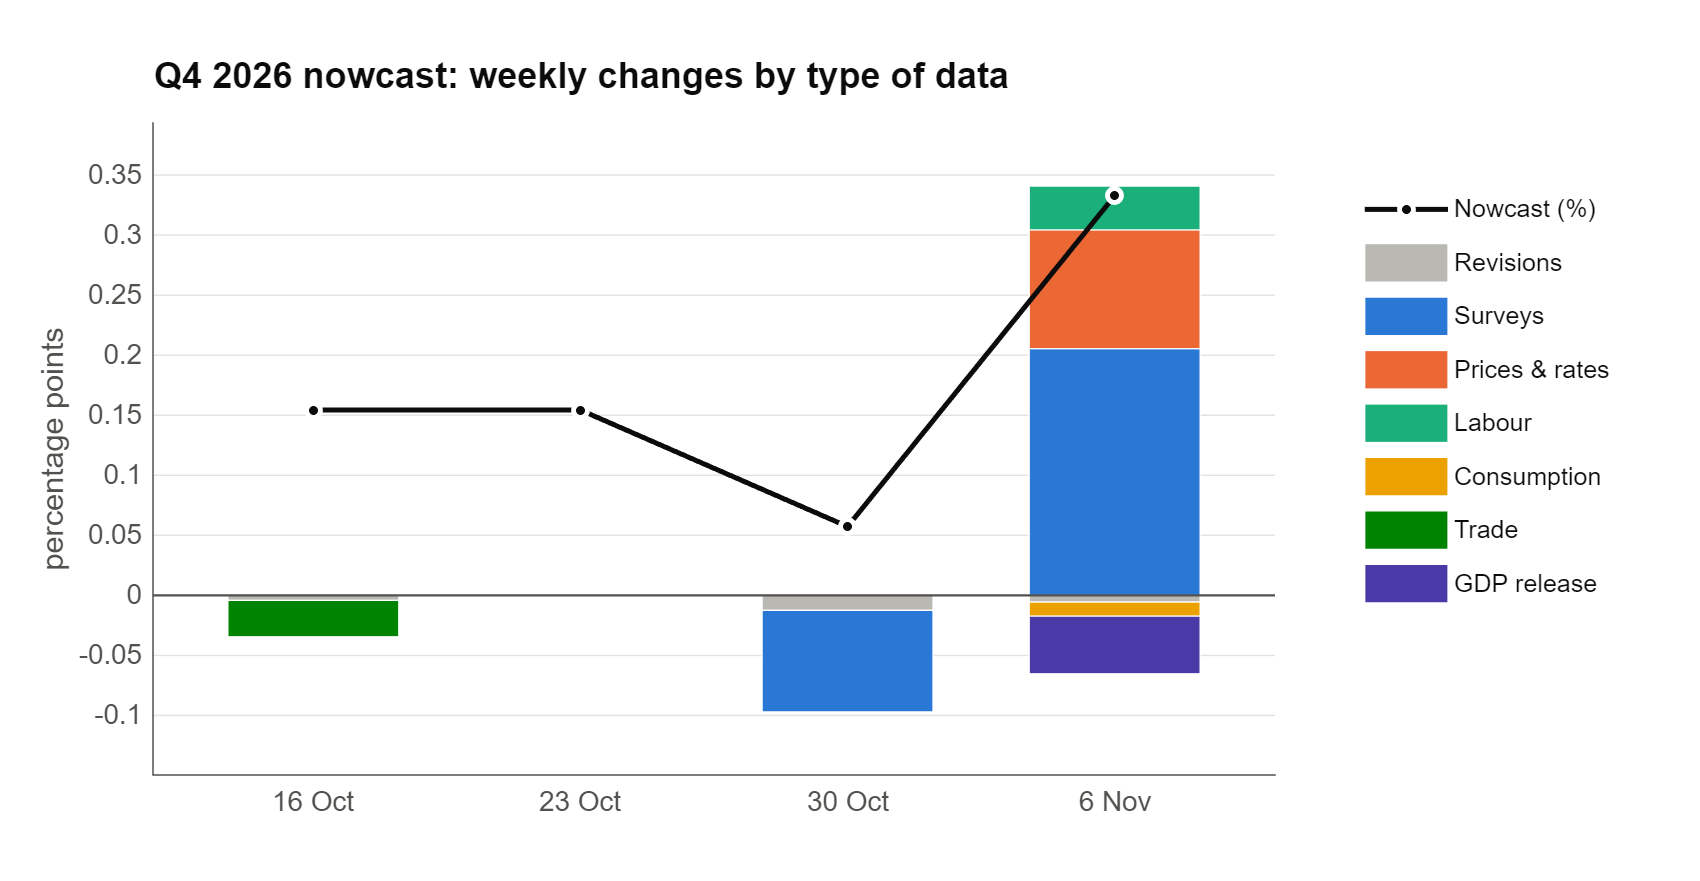
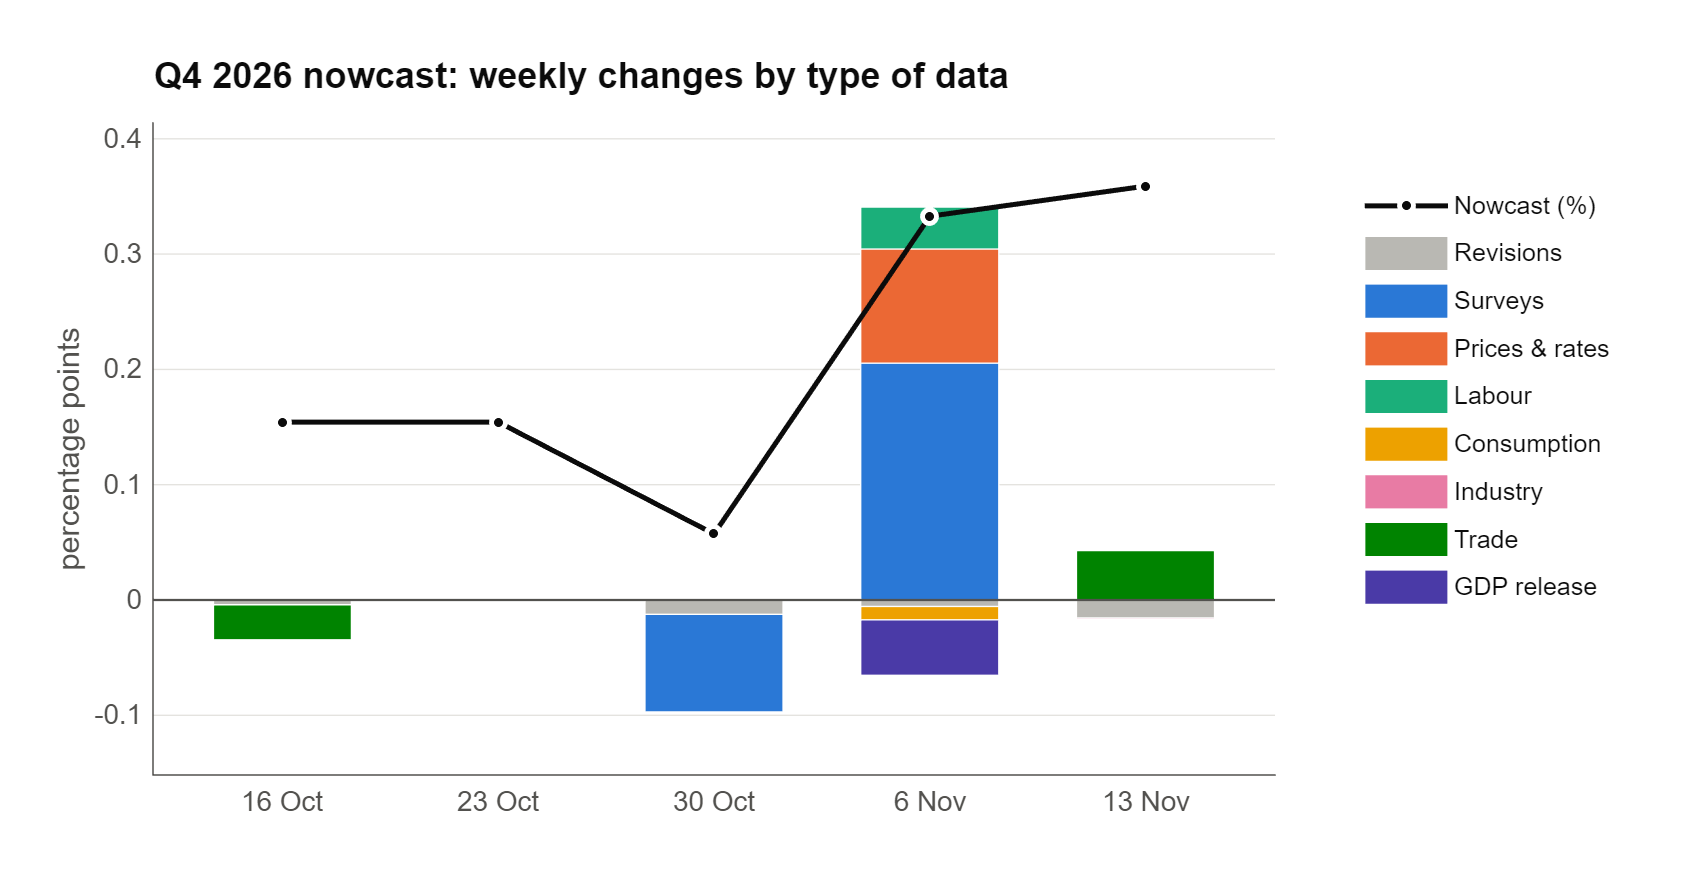
Update GDP nowcast

diff --git a/_pages/nowcast.md b/_pages/nowcast.md
@@ -5,9 +5,9 @@ permalink: /nowcast/
 author_profile: true
 ---
 
-**Latest estimate, 6 November 2026 at 12:02:** Italy's real GDP in **Q4 2026** is growing by **0.33%** compared with the previous quarter.
-Likely range (80% probability): -0.06% to 0.74%. Compared with a year earlier: 0.82%.
-The estimate is up 0.28 percentage points from last week.
+**Latest estimate, 13 November 2026 at 12:13:** Italy's real GDP in **Q4 2026** is growing by **0.36%** compared with the previous quarter.
+Likely range (80% probability): -0.04% to 0.76%. Compared with a year earlier: 0.84%.
+The estimate is up 0.03 percentage points from last week.
 {: .notice--primary style="font-size: 1.1em !important; line-height: 1.6;"}
 
 <!-- release-update -->
@@ -30,7 +30,7 @@ Each bar shows how much the data published that week moved the nowcast, split by
 <details markdown="1">
 <summary>This week's changes in detail</summary>
 
-The data published this week moved the estimate by +0.28 percentage points (surveys +0.21, prices & rates +0.10, gdp release -0.05).
+The data published this week moved the estimate by +0.03 percentage points (trade +0.04, revisions -0.02).
 
 ![Contribution of this week's data releases to the change in the nowcast](web_news_week.png)
 
@@ -38,20 +38,17 @@ The data published this week moved the estimate by +0.28 percentage points (surv
 
 New data published since last week:
 
-- Consumer confidence (Oct 2026): -0.1 points
-- Industrial confidence (Oct 2026): +0.2 points
-- Consumer prices (HICP) (Oct 2026): +1.2% on previous month
-- 1-year Euribor interest rate (Oct 2026): -0.01 percentage points
-- Retail sales (volume) (Sep 2026): +0.1% on previous month
-- Unemployment rate (Sep 2026): +0.10 percentage points
-- Real GDP (Q3 2026): published
+- Industrial production (Sep 2026): +1.2% on previous month
+- Industrial production in Germany (Sep 2026): +1.3% on previous month
+- Exports (Sep 2026): -0.2% on previous month
+- Imports (Sep 2026): +3.3% on previous month
 </details>
 
 ## GDP growth in 2026
 
-**Estimate for 2026 as a whole: 0.87%** (80% range 0.76% to 0.96%), with the data available on 6 November 2026.
+**Estimate for 2026 as a whole: 0.87%** (80% range 0.76% to 0.97%), with the data available on 13 November 2026.
 
-If GDP stayed at its Q3 2026 level for the rest of the year, growth in 2026 would be 0.78% (the carry-over, or *crescita acquisita*, also reported by ISTAT). The nowcast for Q4 2026 adds +0.09 points.
+If GDP stayed at its Q3 2026 level for the rest of the year, growth in 2026 would be 0.78% (the carry-over, or *crescita acquisita*, also reported by ISTAT). The nowcast for Q4 2026 adds +0.10 points.
 
 ![Italy GDP by quarter in 2025 and 2026, with the annual averages](web_annual.png)
 
@@ -106,6 +103,7 @@ Each bar shows how much the data published that week moved the nowcast, by type 
 
 | Estimate made on | Quarter-on-quarter | 80% range | Year-on-year |
 |---|---:|---:|---:|
+| 13 November 2026 | 0.36% | -0.04% to 0.76% | 0.84% |
 | 6 November 2026 | 0.33% | -0.06% to 0.74% | 0.82% |
 | 30 October 2026 | 0.05% | -0.45% to 0.59% | 0.68% |
 | 23 October 2026 | 0.16% | -0.33% to 0.66% | 0.71% |
@@ -121,6 +119,10 @@ Each bar shows how much the data published that week moved the nowcast, by type 
 
 | Week of | Indicator | Data for | Change on previous period |
 |---|---|---|---:|
+| 13 November 2026 | Industrial production | Sep 2026 | +1.2% on previous month |
+| 13 November 2026 | Industrial production in Germany | Sep 2026 | +1.3% on previous month |
+| 13 November 2026 | Exports | Sep 2026 | -0.2% on previous month |
+| 13 November 2026 | Imports | Sep 2026 | +3.3% on previous month |
 | 6 November 2026 | Consumer confidence | Oct 2026 | -0.1 points |
 | 6 November 2026 | Industrial confidence | Oct 2026 | +0.2 points |
 | 6 November 2026 | Consumer prices (HICP) | Oct 2026 | +1.2% on previous month |
@@ -164,4 +166,4 @@ Each bar shows how much the data published that week moved the nowcast, by type 
 
 *IT Now is an independent research project by [Filippo Ferroni](/) (University of Bologna). It is not an official statistic and does not represent the views of any institution. It is not investment advice.*
 
-<small>Page generated automatically on 06 Nov 2026 12:02.</small>
+<small>Page generated automatically on 13 Nov 2026 12:13.</small>
